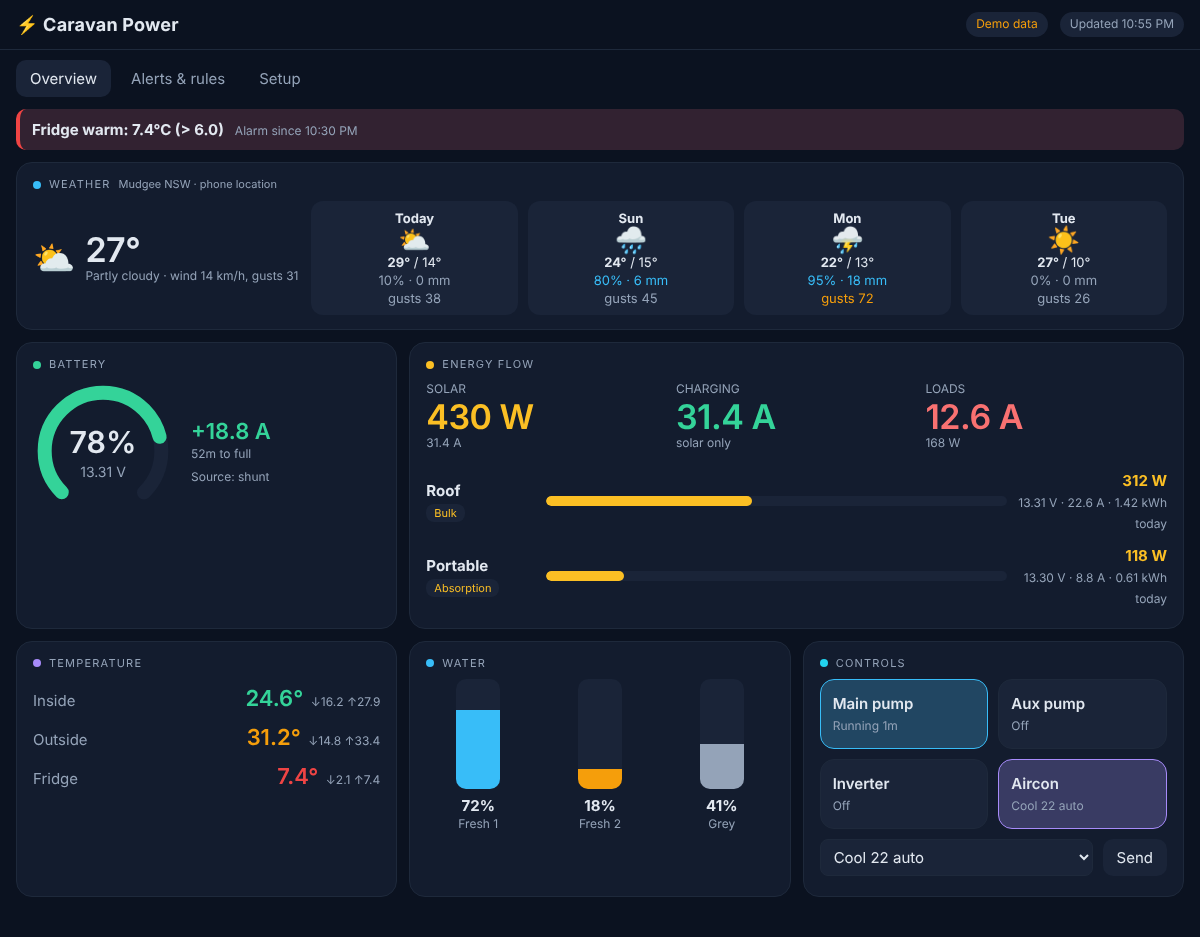
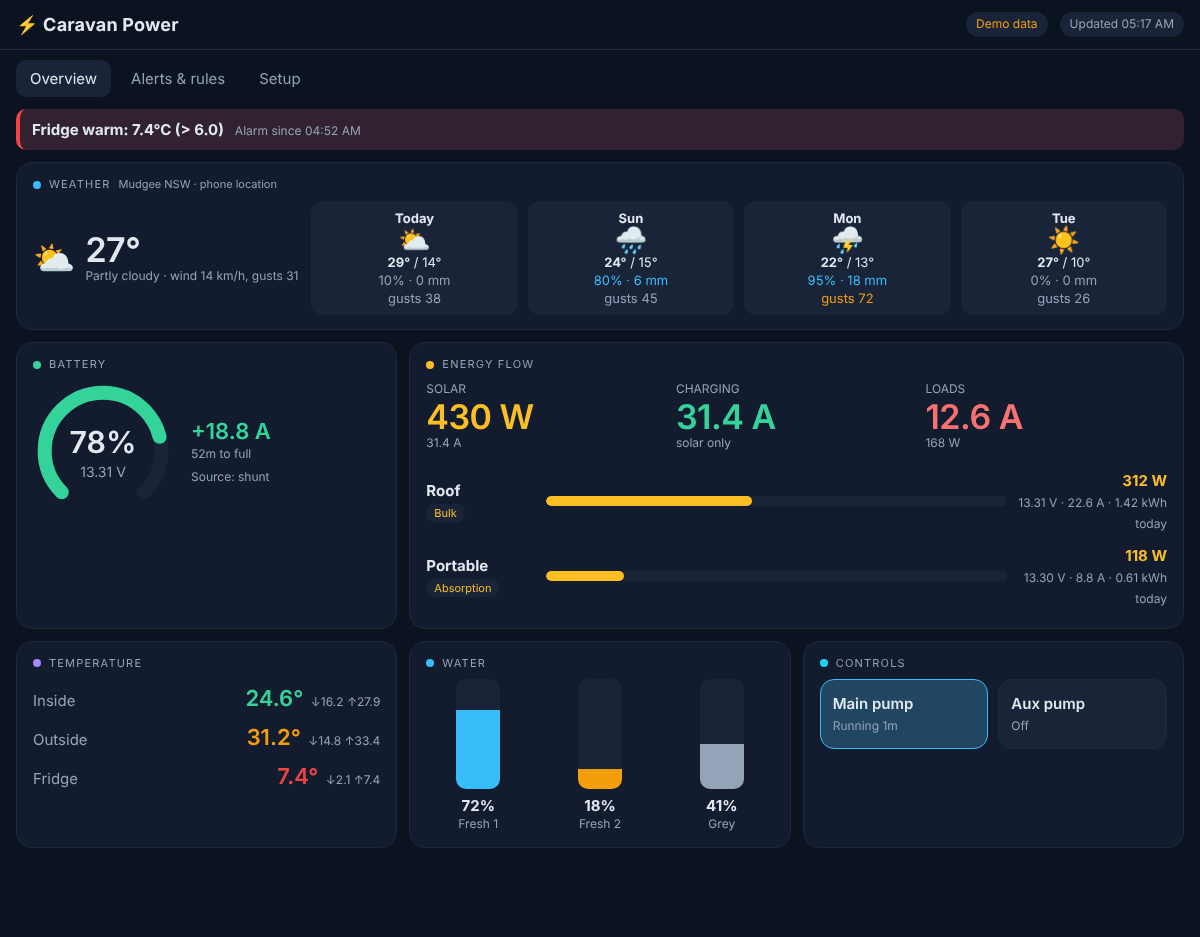
Hide inverter/aircon controls on the web dashboard too
A FEATURES switch in web/index.html (both off, matching the display's
flags) drops the Inverter and Aircon buttons and the preset picker, and
hides the "turn aircon/inverter off" rule actions unless a rule already
uses one. Dashboard screenshots re-rendered.

Claude-Session: https://claude.ai/code/session_01PBSbXBRrcDoW3YJ5nqTXVx

diff --git a/web/index.html b/web/index.html
@@ -164,7 +164,7 @@ pre { white-space:pre-wrap; font-size:12px; background:var(--tile); padding:10px
       <div class="card span4">
         <div class="cap">Controls</div>
         <div class="ctrls" id="ctrls"></div>
-        <div class="row" style="margin-top:10px">
+        <div class="row hidden" id="acRow" style="margin-top:10px">
           <select id="acSel" aria-label="Aircon preset"></select>
           <button class="btn" id="acGo">Send</button>
         </div>
@@ -259,8 +259,8 @@ pre { white-space:pre-wrap; font-size:12px; background:var(--tile); padding:10px
       <div><label>Severity</label><select name="sev"><option value="0">Info</option><option value="1">Warning</option><option value="2">Alarm</option></select></div>
       <div><label>Push to phone</label><select name="ntf"><option value="1">Yes</option><option value="0">No</option></select></div>
       <div><label>Automatic action</label><select name="act">
-        <option value="none">None</option><option value="aircon_off">Turn aircon off</option>
-        <option value="inverter_off">Turn inverter off</option><option value="pumps_off">Turn pumps off</option></select></div>
+        <option value="none">None</option><option value="aircon_off" data-feat="aircon">Turn aircon off</option>
+        <option value="inverter_off" data-feat="inverter">Turn inverter off</option><option value="pumps_off">Turn pumps off</option></select></div>
       <div><label>Enabled</label><select name="en"><option value="1">Yes</option><option value="0">No</option></select></div>
     </div>
     <div class="row" style="margin-top:14px; justify-content:flex-end">
@@ -283,6 +283,10 @@ const METRICS = [
   ["tank2","Tank 2","%"],["tank3","Tank 3","%"]];
 const CS = {0:"Off",2:"Fault",3:"Bulk",4:"Absorption",5:"Float",7:"Equalise",245:"Starting",247:"Auto EQ",252:"Ext control"};
 const SEV = ["Info","Warning","Alarm"], SEVC = ["var(--accent)","var(--warn)","var(--alarm)"];
+
+// Inverter and aircon control are switched off for now (to be added later).
+// Matches FEATURE_INVERTER_CONTROL / FEATURE_AIRCON_CONTROL in the display's ui.h.
+const FEATURES = { inverter:false, aircon:false };
 
 let S = null, META = { sol:["Roof","Portable"], tmp:["Inside","Outside","Fridge"], tank:["Fresh 1","Fresh 2","Grey"],
   pump:["Main pump","Aux pump"], acp:[], rc:true }, RULES = [];
@@ -363,8 +367,8 @@ function render() {
   $("#ctrls").innerHTML = [
     ...S.pump.map((p, i) => `<button class="tog ${p.on ? "on" : ""}" style="--c:${p.lk ? "var(--warn)" : "var(--water)"}" data-act="pump" data-i="${i}" ${rc ? "" : "disabled"}>
       <b>${esc(META.pump[i])}</b><span>${p.lk ? "Locked - tank empty" : p.on ? `Running ${Math.floor(p.rt / 60)}m` : "Off"}</span></button>`),
-    `<button class="tog ${S.inv.on ? "on" : ""}" style="--c:var(--solar)" data-act="inv" ${rc ? "" : "disabled"}><b>Inverter</b><span>${S.inv.on ? (S.inv.ac ? "On · 240 V present" : "On") : "Off"}</span></button>`,
-    `<button class="tog ${S.ac.on ? "on" : ""}" style="--c:var(--climate)" data-act="ac" ${rc ? "" : "disabled"}><b>Aircon</b><span>${esc(acName)}</span></button>`
+    FEATURES.inverter ? `<button class="tog ${S.inv.on ? "on" : ""}" style="--c:var(--solar)" data-act="inv" ${rc ? "" : "disabled"}><b>Inverter</b><span>${S.inv.on ? (S.inv.ac ? "On · 240 V present" : "On") : "Off"}</span></button>` : "",
+    FEATURES.aircon ? `<button class="tog ${S.ac.on ? "on" : ""}" style="--c:var(--climate)" data-act="ac" ${rc ? "" : "disabled"}><b>Aircon</b><span>${esc(acName)}</span></button>` : ""
   ].join("");
   $("#rcNote").textContent = rc ? "" : "Remote control is switched off on the caravan display.";
 
@@ -377,6 +381,9 @@ function render() {
 }
 
 function renderMeta() {
+  $("#acRow").classList.toggle("hidden", !FEATURES.aircon);
+  // Hidden options still show if an existing rule already uses that action.
+  document.querySelectorAll("option[data-feat]").forEach((o) => { o.hidden = !FEATURES[o.dataset.feat]; });
   $("#calCard").classList.toggle("hidden", !META.tcal);  // BMPRO tanks are calibrated in the Odyssey app
   $("#acSel").innerHTML = META.acp.length ? META.acp.map((n, i) => `<option value="${i}">${esc(n)}</option>`).join("") : `<option value="">No presets learned</option>`;
   $("#vicRows").innerHTML = META.sol.map((n, i) => `

diff --git a/README.md b/README.md
@@ -47,7 +47,7 @@ Remote dashboard (desktop and phone, dark and light):
 | Caravan levelling | MPU-6050 on the hub. Bubble level + "raise left wheel 30 mm / jockey down 45 mm" on the touchscreen and **on your phone over Bluetooth** (no Wi-Fi needed). Sensor can be mounted at any angle: *Set level* + *Learn front* calibration, saved permanently |
 | Modern UI on the 7" Waveshare | LVGL 8.3 dark UI, 1024×600 (Waveshare 7B). Layouts are computed from the panel resolution, so nothing is pinned to one screen size. The rail shows only everyday pages (Home, Power, Water, Climate); Level, Alerts & rules and Settings sit behind **More**. Tap the bell for alerts. Screen sleeps, wakes on alarm |
 
-> **Inverter and aircon control are switched off for now.** They'll be added to the project later. The code is still there behind two flags in [`firmware/display/src/ui/ui.h`](firmware/display/src/ui/ui.h): build with `-DFEATURE_INVERTER_CONTROL=1` and/or `-DFEATURE_AIRCON_CONTROL=1` (in `build_flags` in the display's `platformio.ini`) to bring back the Home tiles, the Climate cards and the aircon section in Settings. While they're off, the Climate page shows the weather forecast instead.
+> **Inverter and aircon control are switched off for now.** They'll be added to the project later. The code is still there behind two flags in [`firmware/display/src/ui/ui.h`](firmware/display/src/ui/ui.h): build with `-DFEATURE_INVERTER_CONTROL=1` and/or `-DFEATURE_AIRCON_CONTROL=1` (in `build_flags` in the display's `platformio.ini`) to bring back the Home tiles, the Climate cards and the aircon section in Settings, and set `FEATURES` at the top of the script in `web/index.html` to bring back the dashboard buttons. While they're off, the Climate page shows the weather forecast instead.
 
 ## Architecture
 
